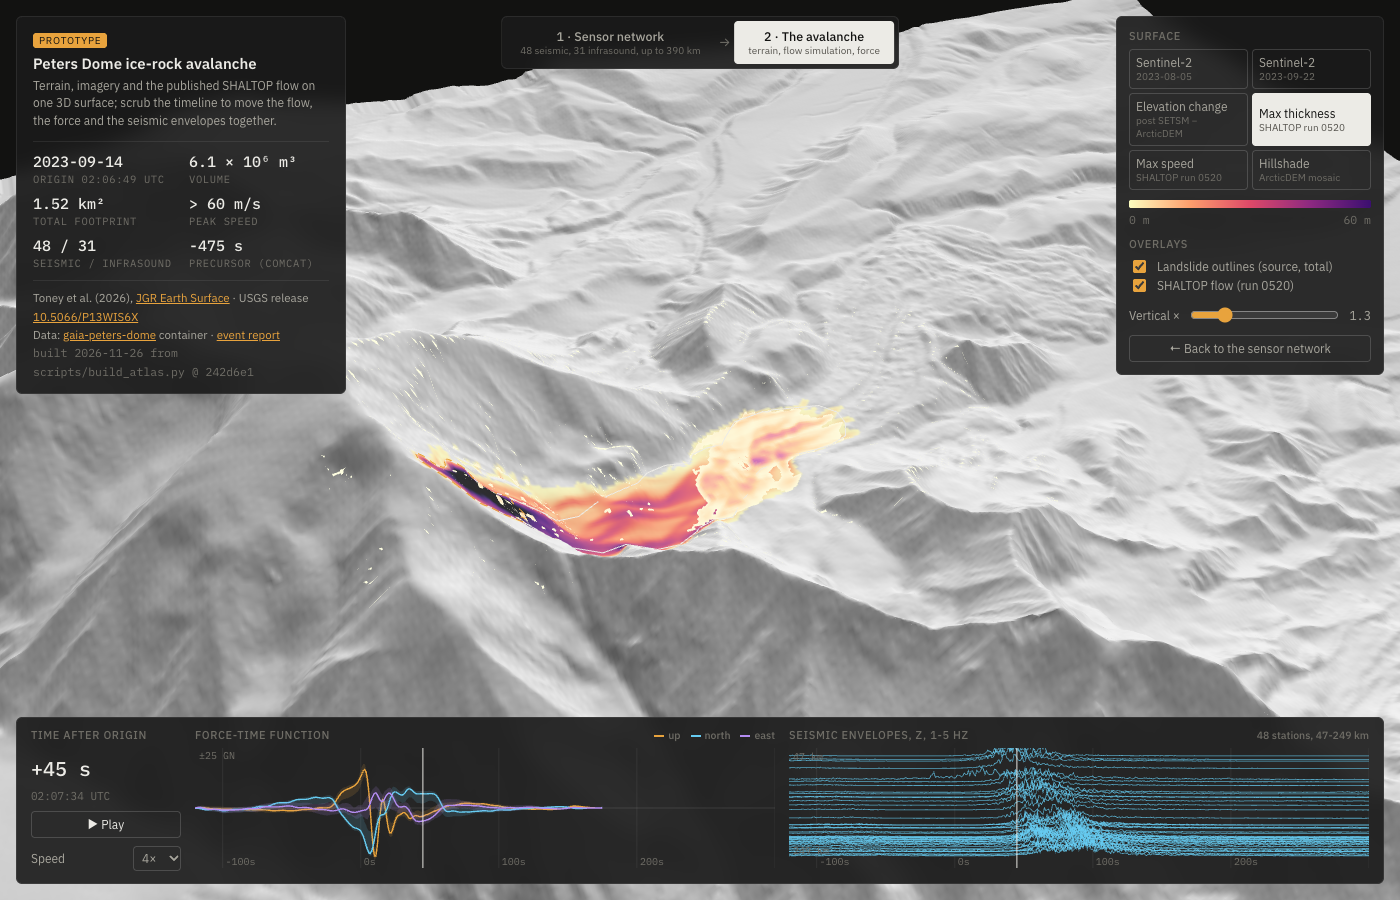
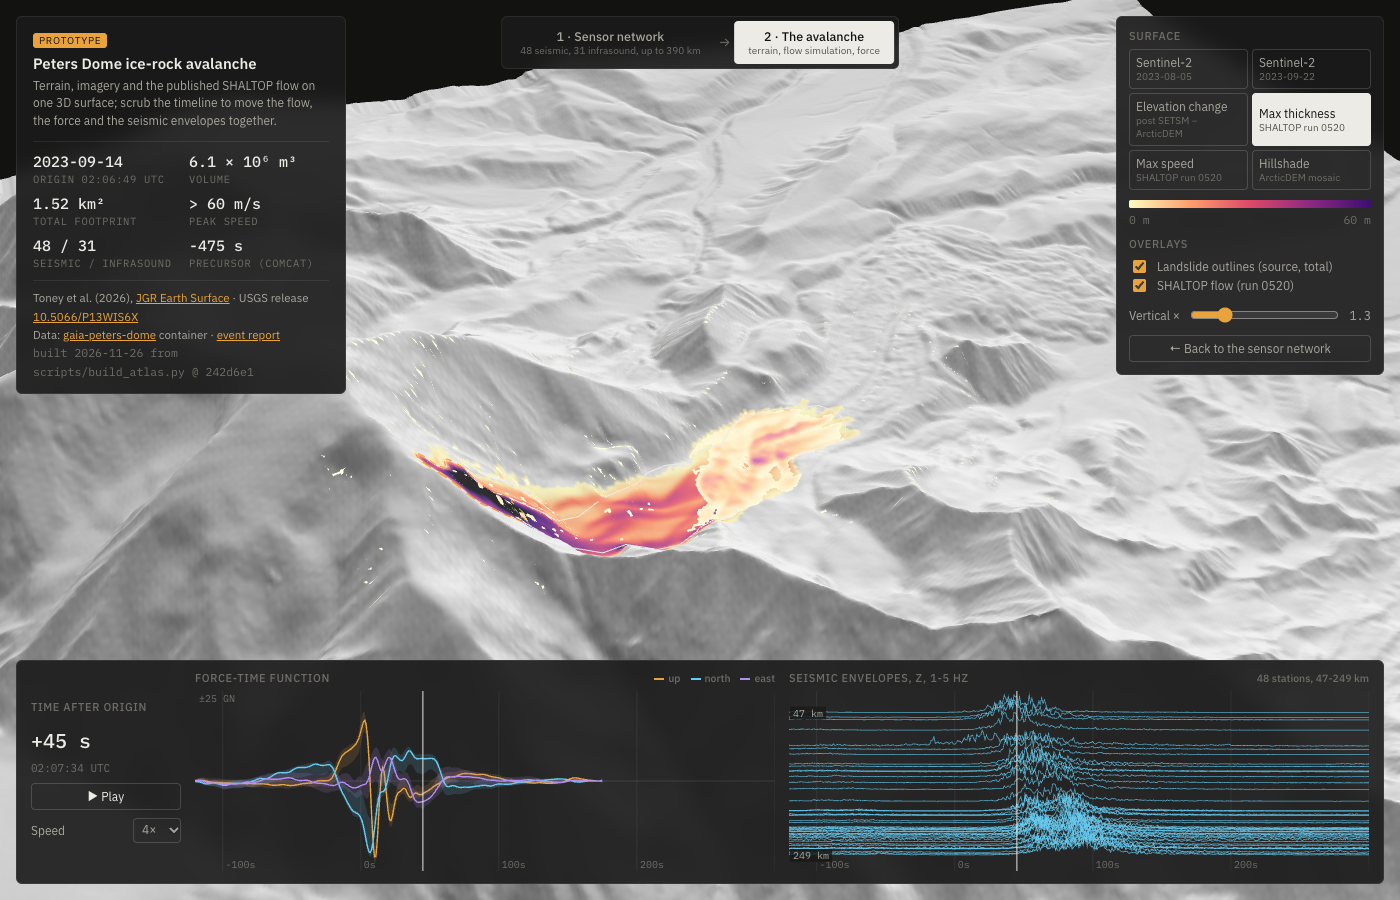
Atlas: GAIA marker convention, taller record sections
- Sensors are screen-space sprites in the GAIA atlas convention: upright
  triangle for seismometers, inverted triangle for infrasound, black 1 px
  edge, 12 px at any zoom; size and brightness still follow each sensor's
  envelope. Legend uses the same SVG markers.
- Record sections 120 -> 180 px tall; trace amplitude follows the trace
  spacing; distance labels on a dark backing; selected sensor named with
  its distance.
- Network camera shifted so the taller timeline does not cover the south
  of the network.

Changed region(s): [[0.0, 0.7156, 1.0, 0.9644]]

diff --git a/docs/atlas/index.html b/docs/atlas/index.html
@@ -50,8 +50,7 @@
   .legend .bar { height:8px; border-radius:2px; }
   .legend .ends { display:flex; justify-content:space-between; color:var(--t3); }
   .sym { display:inline-block; width:10px; height:10px; margin-right:6px; vertical-align:-1px; }
-  .sym.tri { width:0; height:0; border-left:5px solid transparent; border-right:5px solid transparent; border-bottom:10px solid var(--seis); }
-  .sym.dot { border-radius:50%; background:var(--infra); }
+  svg.mk { width:12px; height:12px; margin-right:6px; vertical-align:-1px; overflow:visible; }
   .sym.ring { border-radius:50%; border:1.5px solid; background:transparent; }
   .note { color:var(--t3); font-size:11px; line-height:1.4; }
   .timeline.panel { left:16px; right:16px; bottom:16px; padding:10px 14px 12px; display:grid; grid-template-columns:150px 1fr 1fr; gap:14px; align-items:stretch; }
@@ -61,7 +60,7 @@
   .btn.play { text-align:center; color:var(--t1); }
   .chart { position:relative; min-width:0; }
   .chart h4 { display:flex; justify-content:space-between; gap:8px; }
-  .chart svg, .chart canvas { width:100%; height:120px; display:block; cursor:ew-resize; }
+  .chart svg, .chart canvas { width:100%; height:180px; display:block; cursor:ew-resize; }
   .key span { margin-left:10px; font-size:10.5px; text-transform:none; letter-spacing:0; }
   .key i { display:inline-block; width:10px; height:2px; vertical-align:middle; margin-right:4px; }
   #tip { position:fixed; z-index:20; pointer-events:none; background:rgba(18,18,17,0.95); border:1px solid var(--hair2); border-radius:4px; padding:5px 8px; font-size:11.5px; display:none; }
@@ -103,8 +102,8 @@
 <aside class="controls panel" id="ctl-network">
   <div class="legend">
     <h4>Sensors</h4>
-    <div><span class="sym tri"></span>Seismic, 48 (Z, 1-5 Hz)</div>
-    <div><span class="sym dot"></span>Infrasound, 31 (0.5-5 Hz)</div>
+    <div><svg class="mk" viewBox="0 0 12 12"><path d="M6 0.8 L11.3 10.4 L0.7 10.4 Z" fill="var(--seis)" stroke="#000" stroke-width="1"/></svg>Seismometer, 48 (Z, 1-5 Hz)</div>
+    <div><svg class="mk" viewBox="0 0 12 12"><path d="M0.7 1.6 L11.3 1.6 L6 11.2 Z" fill="var(--infra)" stroke="#000" stroke-width="1"/></svg>Infrasound, 31 (0.5-5 Hz)</div>
     <div class="note">Each sensor brightens with its own recorded envelope at the time on the timeline. Hover for name and distance; click to highlight its trace.</div>
     <h4 style="margin-top:6px">Reference wavefronts</h4>
     <div><span class="sym ring" style="border-color:var(--seis)"></span>3.5 km/s, seismic (illustrative)</div>
@@ -278,30 +277,39 @@ for (const w of Object.values(wave)) { w.line = new THREE.Line(new THREE.BufferG
 // event marker
 const evMarker = new THREE.Mesh(new THREE.SphereGeometry(4500, 24, 16), new THREE.MeshBasicMaterial({ color: 0xe2475f }));
 evMarker.position.copy(reg(0, 0, regElev(0, 0) + 3000 / RVEX)); networkGroup.add(evMarker);
-// sensors: instanced, brightness and size follow each sensor's envelope
-const SENS = { seismic: { list: stations.seismic, color: new THREE.Color(0x66ccf2), geo: new THREE.ConeGeometry(4200, 9000, 3) },
-  infrasound: { list: stations.infrasound, color: new THREE.Color(0x3fc98f), geo: new THREE.SphereGeometry(3600, 16, 12) } };
-const dim = new THREE.Color(0x3a3a38), tmpC = new THREE.Color(), tmpM = new THREE.Matrix4(), tmpQ = new THREE.Quaternion(), tmpS = new THREE.Vector3();
-for (const s of Object.values(SENS)) {
-  s.mesh = new THREE.InstancedMesh(s.geo, new THREE.MeshBasicMaterial(), s.list.length);
-  s.pos = s.list.map(st => reg(st.x_km * 1e3, st.y_km * 1e3, Math.max(regElev(st.x_km * 1e3, st.y_km * 1e3), st.elev_m) + 6000 / RVEX));
-  networkGroup.add(s.mesh);
+// sensors: GAIA atlas markers, the same in 2D and 3D. Seismometer = upright triangle, infrasound = inverted
+// triangle, black 1 px edge, 12 px on screen whatever the zoom (screen-space sprites). Fill brightness and
+// size follow each sensor's own envelope.
+const MARKER_PX = 12;
+function markerTexture(up) {
+  const c = document.createElement("canvas"); c.width = c.height = 64; const g = c.getContext("2d");
+  g.beginPath(); if (up) { g.moveTo(32, 5); g.lineTo(59, 53); g.lineTo(5, 53); } else { g.moveTo(5, 11); g.lineTo(59, 11); g.lineTo(32, 59); }
+  g.closePath(); g.fillStyle = "#ffffff"; g.fill(); g.lineJoin = "round"; g.lineWidth = 5; g.strokeStyle = "#000000"; g.stroke();
+  const t = new THREE.CanvasTexture(c); t.colorSpace = THREE.SRGBColorSpace; return t;
 }
+const SENS = { seismic: { list: stations.seismic, color: new THREE.Color(0x66ccf2), tex: markerTexture(true) },
+  infrasound: { list: stations.infrasound, color: new THREE.Color(0x3fc98f), tex: markerTexture(false) } };
+const dim = new THREE.Color(0x3a3a38);
+const pxScale = px => px * 64 / 54 / ((1 / Math.tan(THREE.MathUtils.degToRad(camera.fov / 2))) * renderer.domElement.clientHeight / 2);
+for (const [k, s] of Object.entries(SENS)) {
+  s.pos = s.list.map(st => reg(st.x_km * 1e3, st.y_km * 1e3, Math.max(regElev(st.x_km * 1e3, st.y_km * 1e3), st.elev_m) + 3000 / RVEX));
+  s.sprites = s.pos.map((p, i) => { const sp = new THREE.Sprite(new THREE.SpriteMaterial({ map: s.tex, sizeAttenuation: false, depthTest: false, transparent: true }));
+    sp.position.copy(p); sp.renderOrder = 10; sp.userData = { kind: k, i }; networkGroup.add(sp); return sp; });
+}
+const SPRITES = [...SENS.seismic.sprites, ...SENS.infrasound.sprites];
 const env = { seismic: { a: new Uint8Array(seisBuf), m: meta.seismic }, infrasound: { a: new Uint8Array(infraBuf), m: meta.infrasound } };
 const envAt = (k, i, t) => { const E = env[k], j = Math.round((t - E.m.t0_rel_s) / E.m.dt_s); return j < 0 || j >= E.m.nt ? 0 : E.a[i * E.m.nt + j] / 255; };
 let selected = null;   // { kind, i }
 function updateSensors(t) {
   for (const [k, s] of Object.entries(SENS)) for (let i = 0; i < s.list.length; i++) {
-    const a = envAt(k, i, t), sel = selected && selected.kind === k && selected.i === i;
-    const sc = 1 + 1.4 * a + (sel ? 0.6 : 0);
-    tmpS.set(sc, sc, sc); tmpM.compose(s.pos[i], tmpQ, tmpS); s.mesh.setMatrixAt(i, tmpM);
-    tmpC.copy(dim).lerp(s.color, 0.35 + 0.65 * a); if (sel) tmpC.set(0xffffff); s.mesh.setColorAt(i, tmpC);
+    const a = envAt(k, i, t), sel = selected && selected.kind === k && selected.i === i, sp = s.sprites[i];
+    const sc = pxScale(MARKER_PX * (1 + 1.2 * a + (sel ? 0.5 : 0))); sp.scale.set(sc, sc, 1);
+    sp.material.color.copy(dim).lerp(s.color, 0.6 + 0.4 * a); if (sel) sp.material.color.set(0xffffff);
   }
-  for (const s of Object.values(SENS)) { s.mesh.instanceMatrix.needsUpdate = true; s.mesh.instanceColor.needsUpdate = true; }
   for (const w of Object.values(wave)) { const r = w.v * 1e3 * t, on = t > 0 && r < RHALF;
     w.line.visible = on; if (on) w.line.geometry.setFromPoints(ringPoints(r, 120)); }
 }
-const networkView = () => { const t = evL.clone().setY(R_Y0); t.z += 60000;
+const networkView = () => { const t = evL.clone().setY(R_Y0); t.z += 120000;
   return { target: t, pos: t.clone().add(new THREE.Vector3(0, 560000, 520000)) }; };
 
 // ---- hover and click on sensors / event marker
@@ -309,10 +317,10 @@ const ray = new THREE.Raycaster(), mouse = new THREE.Vector2(), tip = $("tip");
 function pick(e) {
   mouse.set(e.clientX / innerWidth * 2 - 1, -(e.clientY / innerHeight) * 2 + 1); ray.setFromCamera(mouse, camera);
   if (mode !== "network") return null;
-  const hit = ray.intersectObjects([SENS.seismic.mesh, SENS.infrasound.mesh, evMarker], false)[0];
+  const hit = ray.intersectObjects([...SPRITES, evMarker], false)[0];
   if (!hit) return null;
   if (hit.object === evMarker) return { event: true };
-  const kind = hit.object === SENS.seismic.mesh ? "seismic" : "infrasound"; return { kind, i: hit.instanceId };
+  return { ...hit.object.userData };
 }
 renderer.domElement.addEventListener("pointermove", e => {
   const p = pick(e); renderer.domElement.style.cursor = p ? "pointer" : "";
@@ -375,7 +383,9 @@ function drawRecord(canvas, kind, rgb) {
   const E = env[kind], list = SENS[kind].list, d = list.map(s => s.dist_km), dmin = Math.min(...d), dmax = Math.max(...d);
   const W = canvas.clientWidth, H = canvas.clientHeight, pr = Math.min(devicePixelRatio, 2); if (!W) return;
   canvas.width = W * pr; canvas.height = H * pr; const g = canvas.getContext("2d"); g.scale(pr, pr);
-  const tx = t => (t - T_MIN) / (T_MAX - T_MIN) * W, ty = v => 8 + (v - dmin) / (dmax - dmin) * (H - 20);
+  // amplitude follows the mean trace spacing, so 31 or 48 traces fill the panel without clipping
+  const amp = Math.max(12, Math.min(28, 6 * (H - 40) / list.length)), top = amp + 4, bottom = 16;
+  const tx = t => (t - T_MIN) / (T_MAX - T_MIN) * W, ty = v => top + (v - dmin) / (dmax - dmin) * (H - top - bottom);
   const tick = T_MAX - T_MIN > 600 ? 300 : 100;
   g.strokeStyle = "rgba(255,255,255,0.06)"; g.fillStyle = "#6f6d66"; g.font = "10px IBM Plex Mono";
   for (let t = Math.ceil(T_MIN / tick) * tick; t <= T_MAX; t += tick) { g.beginPath(); g.moveTo(tx(t), 0); g.lineTo(tx(t), H); g.stroke(); g.fillText(`${t}s`, tx(t) + 3, H - 3); }
@@ -383,11 +393,13 @@ function drawRecord(canvas, kind, rgb) {
     const sel = selected && selected.kind === kind && selected.i === i, y0 = ty(d[i]);
     g.beginPath(); g.moveTo(Math.max(tx(E.m.t0_rel_s), 0), y0);
     const j0 = Math.max(0, Math.floor((T_MIN - E.m.t0_rel_s) / E.m.dt_s)), j1 = Math.min(E.m.nt - 1, Math.ceil((T_MAX - E.m.t0_rel_s) / E.m.dt_s));
-    for (let j = j0; j <= j1; j++) g.lineTo(tx(E.m.t0_rel_s + j * E.m.dt_s), y0 - E.a[i * E.m.nt + j] / 255 * (sel ? 22 : 14));
+    for (let j = j0; j <= j1; j++) g.lineTo(tx(E.m.t0_rel_s + j * E.m.dt_s), y0 - E.a[i * E.m.nt + j] / 255 * amp * (sel ? 1.5 : 1));
     g.strokeStyle = sel ? "#ffffff" : `rgba(${rgb},${selected ? 0.35 : 0.75})`; g.lineWidth = sel ? 1.4 : 0.8; g.stroke();
   }
-  g.fillStyle = "#6f6d66"; g.fillText(`${dmin.toFixed(0)} km`, 4, 12); g.fillText(`${dmax.toFixed(0)} km`, 4, H - 14);
-  if (selected && selected.kind === kind) { g.fillStyle = "#ecebe6"; g.fillText(list[selected.i].sta, W - 90, 12); }
+  const label = (s, x, y, c = "#a8a69d") => { const w = g.measureText(s).width + 6;
+    g.fillStyle = "rgba(26,26,25,0.85)"; g.fillRect(x - 3, y - 10, w, 13); g.fillStyle = c; g.fillText(s, x, y); };
+  label(`${dmin.toFixed(0)} km`, 4, ty(dmin) + 4); label(`${dmax.toFixed(0)} km`, 4, ty(dmax) + 4);
+  if (selected && selected.kind === kind) label(`${list[selected.i].sta} · ${list[selected.i].dist_km} km`, W - 150, 12, "#ecebe6");
   const fx = tx(tNow); g.strokeStyle = "#ecebe6"; g.lineWidth = 1; g.beginPath(); g.moveTo(fx, 0); g.lineTo(fx, H); g.stroke();
 }
 $("skey").innerHTML = `<span>${stations.seismic.length} stations, ${stations.seismic[0].dist_km.toFixed(0)}-${stations.seismic.at(-1).dist_km.toFixed(0)} km</span>`;
